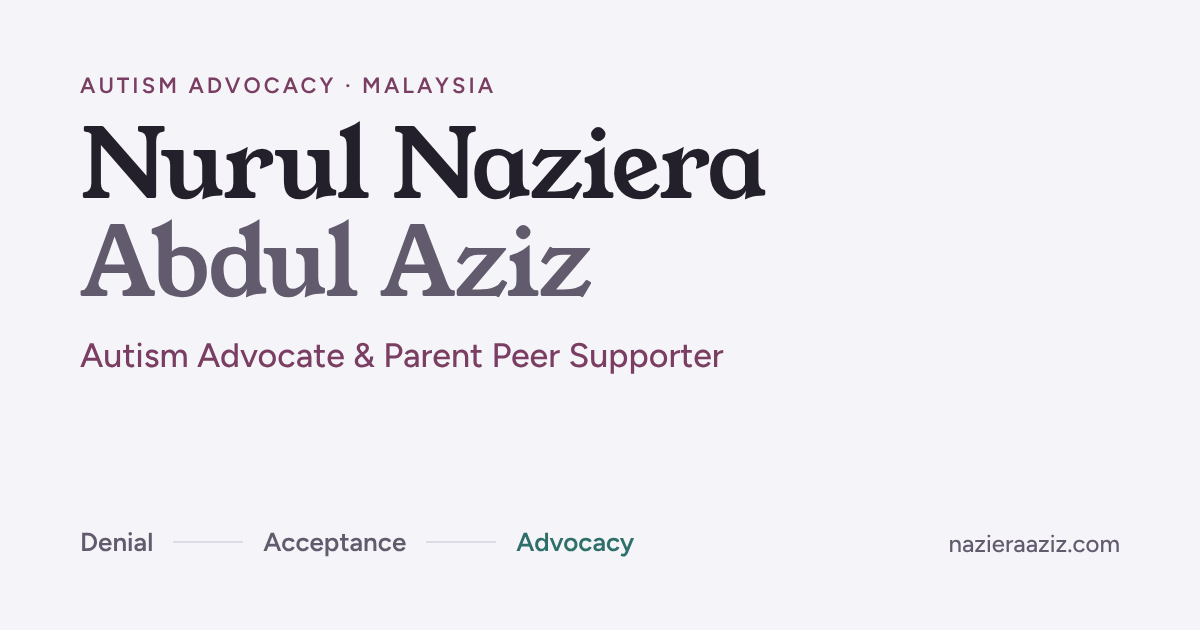
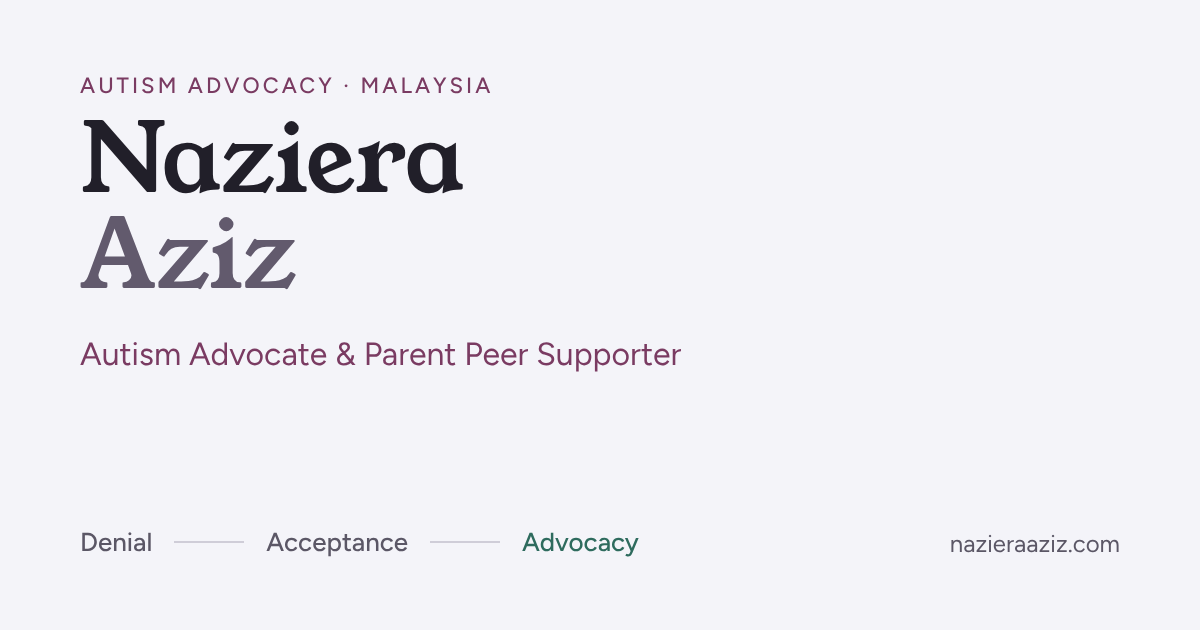
Tukar nama paparan kepada Naziera Aziz (#4)
Ganti Nurul Naziera Abdul Aziz dengan Naziera Aziz dalam tajuk, meta/og/twitter, hero, footer dan og-image.png.

Claude-Session: https://claude.ai/code/session_016U1BjZvm6egE5yW1qcxPnA

diff --git a/index.html b/index.html
@@ -3,9 +3,9 @@
 <head>
 <meta charset="utf-8">
 <meta name="viewport" content="width=device-width, initial-scale=1, viewport-fit=cover">
-<title>Nurul Naziera Abdul Aziz</title>
-<meta name="description" content="Nurul Naziera Abdul Aziz: autism advocate and parent peer supporter in Malaysia. Researching how parent-carers of autistic children share knowledge, from denial to advocacy.">
-<meta property="og:title" content="Nurul Naziera Abdul Aziz">
+<title>Naziera Aziz</title>
+<meta name="description" content="Naziera Aziz: autism advocate and parent peer supporter in Malaysia. Researching how parent-carers of autistic children share knowledge, from denial to advocacy.">
+<meta property="og:title" content="Naziera Aziz">
 <meta property="og:description" content="Autism advocate and parent peer supporter. From denial to acceptance and advocacy.">
 <meta property="og:type" content="website">
 <meta property="og:url" content="https://nazieraaziz.com/">
@@ -15,9 +15,9 @@
 <meta property="og:image" content="https://nazieraaziz.com/og-image.png">
 <meta property="og:image:width" content="1200">
 <meta property="og:image:height" content="630">
-<meta property="og:image:alt" content="Nurul Naziera Abdul Aziz: Autism Advocate &amp; Parent Peer Supporter">
+<meta property="og:image:alt" content="Naziera Aziz: Autism Advocate &amp; Parent Peer Supporter">
 <meta name="twitter:card" content="summary_large_image">
-<meta name="twitter:title" content="Nurul Naziera Abdul Aziz">
+<meta name="twitter:title" content="Naziera Aziz">
 <meta name="twitter:description" content="Autism advocate and parent peer supporter. From denial to acceptance and advocacy.">
 <meta name="twitter:image" content="https://nazieraaziz.com/og-image.png">
 <link rel="canonical" href="https://nazieraaziz.com/">
@@ -249,7 +249,7 @@
     <div class="wrap">
       <div class="hero-text">
       <span class="chip"><svg viewBox="0 0 200 110" aria-hidden="true" focusable="false"><defs><linearGradient id="g-chip" x1="0" y1="0" x2="1" y2="0"><stop offset="0" stop-color="var(--s1)"/><stop offset=".2" stop-color="var(--s2)"/><stop offset=".4" stop-color="var(--s3)"/><stop offset=".6" stop-color="var(--s4)"/><stop offset=".8" stop-color="var(--s5)"/><stop offset="1" stop-color="var(--s6)"/></linearGradient></defs><path d="M100 55C125 15 180 15 180 55S125 95 100 55 20 95 20 55 75 15 100 55Z" fill="none" stroke="url(#g-chip)" stroke-width="18" stroke-linecap="round" stroke-linejoin="round"/></svg><span class="ms">Autisme · Neurodiversiti · Keluarga</span><span class="en">Autism · Neurodiversity · Family</span></span>
-      <h1>Nurul Naziera <span class="soft">Abdul Aziz</span></h1>
+      <h1>Naziera <span class="soft">Aziz</span></h1>
       <p class="role"><span class="ms">Penyokong Autisme &amp; Penyokong Rakan Sebaya Ibu Bapa</span><span class="en">Autism Advocate &amp; Parent Peer Supporter</span></p>
       <p class="lede">
         <span class="ms">Membantu keluarga anak autisme bergerak daripada penafian kepada penerimaan dan advokasi, melalui ilmu, sokongan sebaya dan suara ibu bapa sendiri.</span>
@@ -434,7 +434,7 @@
 <footer>
   <div class="wrap">
     <span class="nd"><svg viewBox="0 0 200 110" aria-hidden="true" focusable="false"><defs><linearGradient id="g-foot" x1="0" y1="0" x2="1" y2="0"><stop offset="0" stop-color="var(--s1)"/><stop offset=".2" stop-color="var(--s2)"/><stop offset=".4" stop-color="var(--s3)"/><stop offset=".6" stop-color="var(--s4)"/><stop offset=".8" stop-color="var(--s5)"/><stop offset="1" stop-color="var(--s6)"/></linearGradient></defs><path d="M100 55C125 15 180 15 180 55S125 95 100 55 20 95 20 55 75 15 100 55Z" fill="none" stroke="url(#g-foot)" stroke-width="16" stroke-linecap="round" stroke-linejoin="round"/></svg><span><span class="ms">Simbol infiniti pelbagai warna mewakili neurodiversiti: spektrum autisme yang luas dan setiap insan yang unik.</span><span class="en">The multicoloured infinity symbol stands for neurodiversity: the wide autism spectrum and every unique person on it.</span></span></span>
-    <span>© 2026 Nurul Naziera Abdul Aziz · Malaysia</span>
+    <span>© 2026 Naziera Aziz · Malaysia</span>
   </div>
 </footer>
 
